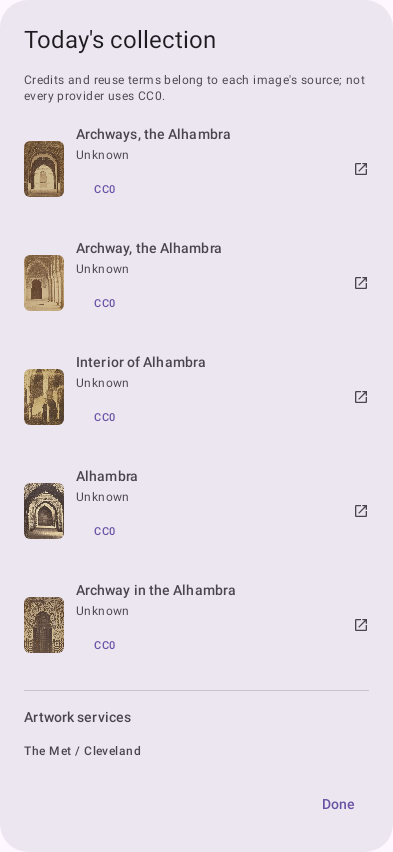
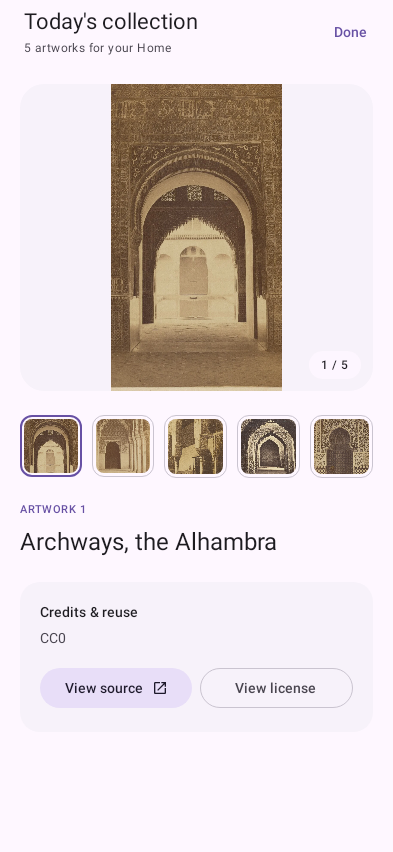
Redesign Today's collection as a themed artwork gallery

diff --git a/core/components/src/commonMain/kotlin/com/starception/submission/settings/components/HomeArtworkCollectionDialog.kt b/core/components/src/commonMain/kotlin/com/starception/submission/settings/components/HomeArtworkCollectionDialog.kt
@@ -1,0 +1,189 @@
+/*
+ * Copyright 2026 The Android Open Source Project
+ *
+ * Licensed under the Apache License, Version 2.0 (the "License");
+ * you may not use this file except in compliance with the License.
+ * You may obtain a copy of the License at
+ *
+ *     https://www.apache.org/licenses/LICENSE-2.0
+ *
+ * Unless required by applicable law or agreed to in writing, software
+ * distributed under the License is distributed on an "AS IS" BASIS,
+ * WITHOUT WARRANTIES OR CONDITIONS OF ANY KIND, either express or implied.
+ * See the License for the specific language governing permissions and
+ * limitations under the License.
+ */
+
+package com.starception.submission.settings.components
+
+import androidx.compose.foundation.Image
+import androidx.compose.foundation.border
+import androidx.compose.foundation.clickable
+import androidx.compose.foundation.layout.Arrangement
+import androidx.compose.foundation.layout.Box
+import androidx.compose.foundation.layout.BoxWithConstraints
+import androidx.compose.foundation.layout.Column
+import androidx.compose.foundation.layout.Row
+import androidx.compose.foundation.layout.WindowInsets
+import androidx.compose.foundation.layout.aspectRatio
+import androidx.compose.foundation.layout.fillMaxSize
+import androidx.compose.foundation.layout.fillMaxWidth
+import androidx.compose.foundation.layout.padding
+import androidx.compose.foundation.layout.safeDrawing
+import androidx.compose.foundation.layout.size
+import androidx.compose.foundation.layout.widthIn
+import androidx.compose.foundation.layout.windowInsetsPadding
+import androidx.compose.foundation.pager.HorizontalPager
+import androidx.compose.foundation.pager.rememberPagerState
+import androidx.compose.foundation.rememberScrollState
+import androidx.compose.foundation.shape.RoundedCornerShape
+import androidx.compose.foundation.verticalScroll
+import androidx.compose.material.icons.Icons
+import androidx.compose.material.icons.outlined.OpenInNew
+import androidx.compose.material3.FilledTonalButton
+import androidx.compose.material3.Icon
+import androidx.compose.material3.MaterialTheme
+import androidx.compose.material3.OutlinedButton
+import androidx.compose.material3.Surface
+import androidx.compose.material3.Text
+import androidx.compose.material3.TextButton
+import androidx.compose.runtime.Composable
+import androidx.compose.runtime.getValue
+import androidx.compose.runtime.mutableStateOf
+import androidx.compose.runtime.remember
+import androidx.compose.runtime.rememberCoroutineScope
+import androidx.compose.runtime.setValue
+import androidx.compose.ui.Alignment
+import androidx.compose.ui.Modifier
+import androidx.compose.ui.draw.clip
+import androidx.compose.ui.layout.ContentScale
+import androidx.compose.ui.platform.LocalDensity
+import androidx.compose.ui.platform.LocalUriHandler
+import androidx.compose.ui.platform.testTag
+import androidx.compose.ui.semantics.Role
+import androidx.compose.ui.semantics.contentDescription
+import androidx.compose.ui.semantics.selected
+import androidx.compose.ui.semantics.semantics
+import androidx.compose.ui.unit.dp
+import androidx.compose.ui.window.Dialog
+import androidx.compose.ui.window.DialogProperties
+import com.starception.submission.core.images.HomeArtwork
+import com.starception.submission.core.images.currentHomeArtworkPainter
+import kotlinx.coroutines.launch
+
+@Composable
+internal fun HomeArtworkCollectionDialog(artworks: List<HomeArtwork>, onDismiss: () -> Unit) {
+    val pager = rememberPagerState(pageCount = { artworks.size })
+    val scope = rememberCoroutineScope()
+    val uriHandler = LocalUriHandler.current
+    var linkError by remember { mutableStateOf<String?>(null) }
+    fun openLink(url: String) {
+        linkError = null
+        runCatching { uriHandler.openUri(url) }
+            .onFailure { linkError = "This link could not be opened. Please try again." }
+    }
+
+    Dialog(onDismissRequest = onDismiss, properties = DialogProperties(usePlatformDefaultWidth = false)) {
+        Surface(Modifier.fillMaxSize(), color = MaterialTheme.colorScheme.surface) {
+            Box(Modifier.fillMaxSize().windowInsetsPadding(WindowInsets.safeDrawing),
+                contentAlignment = Alignment.TopCenter) {
+                Column(Modifier.widthIn(max = 720.dp).fillMaxSize().testTag("homeArtworkCollection")) {
+                    Row(Modifier.fillMaxWidth().padding(start = 24.dp, end = 12.dp, top = 8.dp, bottom = 8.dp),
+                        verticalAlignment = Alignment.CenterVertically) {
+                        Column(Modifier.weight(1f), verticalArrangement = Arrangement.spacedBy(4.dp)) {
+                            Text("Today's collection", style = MaterialTheme.typography.titleLarge)
+                            Text("${artworks.size} artworks for your Home", style = MaterialTheme.typography.bodySmall,
+                                color = MaterialTheme.colorScheme.onSurfaceVariant)
+                        }
+                        TextButton(onClick = onDismiss) { Text("Done") }
+                    }
+                    Column(Modifier.weight(1f).verticalScroll(rememberScrollState()).padding(20.dp),
+                        verticalArrangement = Arrangement.spacedBy(24.dp)) {
+                        Box {
+                            HorizontalPager(state = pager, modifier = Modifier.fillMaxWidth()
+                                .aspectRatio(1.15f).clip(RoundedCornerShape(24.dp))
+                                .testTag("homeArtworkCollectionPager")) { page ->
+                                Surface(Modifier.fillMaxSize(), color = MaterialTheme.colorScheme.surfaceContainerLow) {
+                                    Image(currentHomeArtworkPainter(page), contentDescription = artworks[page].title,
+                                        contentScale = ContentScale.Fit, modifier = Modifier.fillMaxSize())
+                                }
+                            }
+                            Surface(modifier = Modifier.align(Alignment.BottomEnd).padding(12.dp),
+                                shape = RoundedCornerShape(50), color = MaterialTheme.colorScheme.surface.copy(alpha = .94f)) {
+                                Text("${pager.currentPage + 1} / ${artworks.size}",
+                                    Modifier.padding(horizontal = 12.dp, vertical = 6.dp),
+                                    style = MaterialTheme.typography.labelMedium)
+                            }
+                        }
+                        Row(Modifier.fillMaxWidth(), horizontalArrangement = Arrangement.spacedBy(10.dp)) {
+                            artworks.forEachIndexed { index, artwork ->
+                                val isSelected = pager.currentPage == index
+                                val shape = RoundedCornerShape(12.dp)
+                                Box(Modifier.weight(1f).aspectRatio(1f)
+                                    .border(if (isSelected) 2.dp else 1.dp,
+                                        if (isSelected) MaterialTheme.colorScheme.primary else MaterialTheme.colorScheme.outlineVariant,
+                                        shape)
+                                    .clip(shape).clickable(role = Role.Tab) { scope.launch { pager.animateScrollToPage(index) } }
+                                    .semantics {
+                                        selected = isSelected
+                                        contentDescription = "Artwork ${index + 1}: ${artwork.title}"
+                                    }.testTag("homeArtworkCollectionItem$index").padding(4.dp)) {
+                                    Image(currentHomeArtworkPainter(index), contentDescription = null,
+                                        contentScale = ContentScale.Crop, modifier = Modifier.fillMaxSize().clip(RoundedCornerShape(8.dp)))
+                                }
+                            }
+                        }
+                        artworks.getOrNull(pager.currentPage)?.let { artwork ->
+                            Column(verticalArrangement = Arrangement.spacedBy(8.dp)) {
+                                Text("ARTWORK ${pager.currentPage + 1}", style = MaterialTheme.typography.labelSmall,
+                                    color = MaterialTheme.colorScheme.primary)
+                                Text(artwork.title, style = MaterialTheme.typography.headlineSmall,
+                                    modifier = Modifier.testTag("homeArtworkCollectionTitle"))
+                                if (artwork.artist.isNotBlank() && !artwork.artist.equals("Unknown", ignoreCase = true)) {
+                                    Text(artwork.artist, style = MaterialTheme.typography.bodyMedium,
+                                        color = MaterialTheme.colorScheme.onSurfaceVariant)
+                                }
+                            }
+                            Surface(shape = RoundedCornerShape(20.dp), color = MaterialTheme.colorScheme.surfaceContainerLow) {
+                                Column(Modifier.fillMaxWidth().padding(20.dp), verticalArrangement = Arrangement.spacedBy(16.dp)) {
+                                    Column(verticalArrangement = Arrangement.spacedBy(6.dp)) {
+                                        Text("Credits & reuse", style = MaterialTheme.typography.titleSmall)
+                                        Text(artwork.licenseName, style = MaterialTheme.typography.bodyMedium,
+                                            color = MaterialTheme.colorScheme.onSurfaceVariant)
+                                    }
+                                    BoxWithConstraints(Modifier.fillMaxWidth()) {
+                                        val stack = maxWidth < 300.dp || LocalDensity.current.fontScale > 1.2f
+                                        val source: @Composable (Modifier) -> Unit = { modifier ->
+                                            FilledTonalButton(onClick = { openLink(artwork.sourceUrl) },
+                                                modifier = modifier.testTag("homeArtworkCollectionSource")) {
+                                                Text("View source")
+                                                Icon(Icons.Outlined.OpenInNew, null, Modifier.padding(start = 8.dp).size(16.dp))
+                                            }
+                                        }
+                                        val license: @Composable (Modifier) -> Unit = { modifier ->
+                                            OutlinedButton(onClick = { openLink(artwork.licenseUrl) },
+                                                modifier = modifier.testTag("homeArtworkCollectionLicense")) { Text("View license") }
+                                        }
+                                        if (stack) {
+                                            Column(verticalArrangement = Arrangement.spacedBy(8.dp)) {
+                                                source(Modifier.fillMaxWidth())
+                                                license(Modifier.fillMaxWidth())
+                                            }
+                                        } else {
+                                            Row(horizontalArrangement = Arrangement.spacedBy(8.dp)) {
+                                                source(Modifier.weight(1f))
+                                                license(Modifier.weight(1f))
+                                            }
+                                        }
+                                    }
+                                    linkError?.let { Text(it, style = MaterialTheme.typography.bodySmall,
+                                        color = MaterialTheme.colorScheme.error) }
+                                }
+                            }
+                        }
+                    }
+                }
+            }
+        }
+    }
+}

diff --git a/core/components/src/commonMain/kotlin/com/starception/submission/settings/components/HomeArtworkSettingsSection.kt b/core/components/src/commonMain/kotlin/com/starception/submission/settings/components/HomeArtworkSettingsSection.kt
@@ -28,16 +28,11 @@ import androidx.compose.foundation.layout.fillMaxWidth
 import androidx.compose.foundation.layout.height
 import androidx.compose.foundation.layout.padding
 import androidx.compose.foundation.layout.size
-import androidx.compose.foundation.layout.width
-import androidx.compose.foundation.rememberScrollState
 import androidx.compose.foundation.shape.RoundedCornerShape
-import androidx.compose.foundation.verticalScroll
 import androidx.compose.material.icons.Icons
 import androidx.compose.material.icons.outlined.Check
 import androidx.compose.material.icons.outlined.ExpandMore
-import androidx.compose.material.icons.outlined.OpenInNew
 import androidx.compose.material.icons.outlined.Refresh
-import androidx.compose.material3.AlertDialog
 import androidx.compose.material3.DropdownMenu
 import androidx.compose.material3.DropdownMenuItem
 import androidx.compose.material3.FilledTonalButton
@@ -58,19 +53,15 @@ import androidx.compose.ui.Modifier
 import androidx.compose.ui.draw.clip
 import androidx.compose.ui.layout.ContentScale
 import androidx.compose.ui.platform.LocalDensity
-import androidx.compose.ui.platform.LocalUriHandler
 import androidx.compose.ui.platform.testTag
 import androidx.compose.ui.semantics.Role
 import androidx.compose.ui.semantics.contentDescription
 import androidx.compose.ui.semantics.selected
 import androidx.compose.ui.semantics.semantics
 import androidx.compose.ui.text.font.FontWeight
-import androidx.compose.ui.text.style.TextOverflow
 import androidx.compose.ui.unit.dp
 import com.starception.submission.core.images.ArtworkFrequency
-import com.starception.submission.core.images.HomeArtwork
 import com.starception.submission.core.images.homeArtworkGallery
-import com.starception.submission.core.images.homeArtworkIndex
 import com.starception.submission.core.images.rememberHomeArtworkState
 import kotlinx.datetime.TimeZone
 import kotlinx.datetime.toLocalDateTime
@@ -79,8 +70,6 @@ import com.starception.submission.core.images.rememberHomeArtworkCollection
 import com.starception.submission.core.images.currentHomeArtworkPainter
 import com.starception.submission.core.images.HomeArtworkCollectionState
 import com.starception.submission.core.images.ArtworkTheme
-import com.starception.submission.core.images.artworkServices
-import org.jetbrains.compose.resources.painterResource
 
 @Composable
 fun HomeArtworkSettingsSection() {
@@ -192,7 +181,7 @@ fun HomeArtworkSettingsSection() {
             }
         }
     }
-    if (showDetails) ArtworkDetailsDialog(artworks, onDismiss = { showDetails = false })
+    if (showDetails) HomeArtworkCollectionDialog(artworks, onDismiss = { showDetails = false })
 }
 
 @Composable
@@ -303,55 +292,3 @@ private val ArtworkFrequency.description: String
         ArtworkFrequency.MONTHLY -> "At the start of each month"
         ArtworkFrequency.FIXED -> "Your current set stays"
     }
-
-@Composable
-private fun ArtworkDetailsDialog(artworks: List<HomeArtwork>, onDismiss: () -> Unit) {
-    val uriHandler = LocalUriHandler.current
-    AlertDialog(
-        onDismissRequest = onDismiss,
-        title = { Text("Today's collection") },
-        text = {
-            Column(
-                modifier = Modifier.verticalScroll(rememberScrollState()),
-                verticalArrangement = Arrangement.spacedBy(16.dp),
-            ) {
-                Text("Credits and reuse terms belong to each image's source; not every provider uses CC0.",
-                    style = MaterialTheme.typography.bodySmall)
-                artworks.forEachIndexed { page, artwork ->
-                    Row(
-                        modifier = Modifier.fillMaxWidth().clip(RoundedCornerShape(8.dp))
-                            .clickable(role = Role.Button) { uriHandler.openUri(artwork.sourceUrl) }
-                            .padding(vertical = 4.dp),
-                        horizontalArrangement = Arrangement.spacedBy(12.dp),
-                        verticalAlignment = Alignment.CenterVertically,
-                    ) {
-                        Image(currentHomeArtworkPainter(page), contentDescription = null,
-                            contentScale = ContentScale.Crop,
-                            modifier = Modifier.width(40.dp).height(56.dp).clip(RoundedCornerShape(6.dp)))
-                        Column(Modifier.weight(1f), verticalArrangement = Arrangement.spacedBy(3.dp)) {
-                            Text(artwork.title, style = MaterialTheme.typography.labelLarge,
-                                maxLines = 2, overflow = TextOverflow.Ellipsis)
-                            Text(artwork.artist, style = MaterialTheme.typography.bodySmall,
-                                 color = MaterialTheme.colorScheme.onSurfaceVariant)
-                            TextButton(onClick = { uriHandler.openUri(artwork.licenseUrl) }) {
-                                Text(artwork.licenseName, style = MaterialTheme.typography.labelSmall)
-                            }
-                        }
-                        Icon(Icons.Outlined.OpenInNew, contentDescription = "Open image source",
-                            modifier = Modifier.size(16.dp), tint = MaterialTheme.colorScheme.onSurfaceVariant)
-                    }
-                }
-                HorizontalDivider()
-                Text("Artwork services", style = MaterialTheme.typography.titleSmall)
-                artworkServices.forEach { service ->
-                    Column(verticalArrangement = Arrangement.spacedBy(2.dp)) {
-                        Text(service.name, style = MaterialTheme.typography.labelMedium)
-                        Text(service.status, style = MaterialTheme.typography.bodySmall,
-                            color = MaterialTheme.colorScheme.onSurfaceVariant)
-                    }
-                }
-            }
-        },
-        confirmButton = { TextButton(onClick = onDismiss) { Text("Done") } },
-    )
-}

diff --git a/app/src/testDemo/kotlin/com/starception/submission/feature/prayertimes/HomeArtworkSettingsTest.kt b/app/src/testDemo/kotlin/com/starception/submission/feature/prayertimes/HomeArtworkSettingsTest.kt
@@ -33,16 +33,22 @@ import androidx.compose.runtime.remember
 import androidx.compose.runtime.rememberCoroutineScope
 import androidx.compose.ui.platform.LocalInspectionMode
 import androidx.compose.ui.platform.LocalDensity
+import androidx.compose.ui.platform.LocalUriHandler
+import androidx.compose.ui.platform.UriHandler
 import androidx.compose.ui.unit.Density
 import androidx.compose.ui.Modifier
 import androidx.compose.ui.test.junit4.createComposeRule
 import androidx.compose.ui.test.onNodeWithTag
 import androidx.compose.ui.test.getUnclippedBoundsInRoot
 import androidx.compose.ui.test.assertIsDisplayed
+import androidx.compose.ui.test.assertIsSelected
+import androidx.compose.ui.test.assertTextEquals
 import androidx.compose.ui.test.onNodeWithText
 import androidx.compose.ui.test.onRoot
 import androidx.compose.ui.test.performClick
 import androidx.compose.ui.test.performScrollTo
+import androidx.compose.ui.test.performTouchInput
+import androidx.compose.ui.test.swipeLeft
 import androidx.compose.ui.unit.dp
 import androidx.test.core.app.ApplicationProvider
 import androidx.lifecycle.Lifecycle
@@ -67,6 +73,7 @@ import org.junit.Rule
 import org.junit.Test
 import org.junit.runner.RunWith
 import org.robolectric.RobolectricTestRunner
+import org.robolectric.RuntimeEnvironment
 import org.robolectric.annotation.Config
 import org.robolectric.annotation.GraphicsMode
 
@@ -200,6 +207,47 @@ class HomeArtworkSettingsTest {
         compose.onRoot().captureRoboImage("src/testDemo/screenshots/home_artwork_settings_large_text.png")
         compose.onNodeWithTag("homeArtworkFrequency").performClick()
         compose.onNodeWithText("Every day").performClick()
+    }
+
+    @Test fun collectionSelectionAndSwipingUpdateThePreviewAndCreditLinks() {
+        val opened = mutableListOf<String>()
+        compose.setContent {
+            CompositionLocalProvider(LocalUriHandler provides object : UriHandler {
+                override fun openUri(uri: String) { opened += uri }
+            }) { ArtworkSettingsScene(showHomeCollection = true) }
+        }
+        compose.onNodeWithTag("homeArtworkFrequency").performClick()
+        compose.onNodeWithText("Every day").performClick()
+        compose.onNodeWithText("Home shows Quiet Valley 1").assertExists()
+        compose.onNodeWithTag("homeArtworkDetails").performClick()
+        compose.onNodeWithTag("homeArtworkCollectionTitle").assertTextEquals("Quiet Valley 1")
+        compose.onNodeWithTag("homeArtworkCollectionItem1").performClick().assertIsSelected()
+        compose.onNodeWithTag("homeArtworkCollectionTitle").assertTextEquals("Quiet Valley 2")
+        compose.onNodeWithTag("homeArtworkCollectionPager").performTouchInput { swipeLeft() }
+        compose.onNodeWithTag("homeArtworkCollectionItem2").assertIsSelected()
+        compose.onNodeWithTag("homeArtworkCollectionTitle").assertTextEquals("Quiet Valley 3")
+        compose.onNodeWithTag("homeArtworkCollectionSource").performScrollTo().performClick()
+        compose.onNodeWithTag("homeArtworkCollectionLicense").performScrollTo().performClick()
+        compose.runOnIdle {
+            assertEquals(listOf("https://www.metmuseum.org/art/collection/search/3",
+                "https://creativecommons.org/publicdomain/zero/1.0/"), opened)
+        }
+        compose.onNodeWithText("Done").performClick()
+        compose.onNodeWithTag("homeArtworkCollection").assertDoesNotExist()
+    }
+
+    @Test @Config(qualifiers = "w320dp-h852dp")
+    fun collectionCreditsStayReachableWithLargeText() {
+        // Dialogs use the window configuration, so exercise the real system font scale.
+        RuntimeEnvironment.setFontScale(1.5f)
+        compose.setContent { ArtworkSettingsScene() }
+        compose.onNodeWithTag("homeArtworkDetails").performScrollTo().performClick()
+        compose.onNodeWithText("Today's collection").assertIsDisplayed()
+        compose.onNodeWithTag("homeArtworkCollectionItem4").performScrollTo().performClick().assertIsSelected()
+        compose.onNodeWithTag("homeArtworkCollectionSource").performScrollTo().assertIsDisplayed()
+        compose.onNodeWithTag("homeArtworkCollectionLicense").performScrollTo().assertIsDisplayed()
+        compose.onRoot().captureRoboImage("src/testDemo/screenshots/home_artwork_details_large_text.png")
+        compose.onNodeWithText("Done").assertIsDisplayed().performClick()
     }
 
 }

diff --git a/core/images/artwork/REVIEWED_ISLAMIC_ARTWORK.md b/core/images/artwork/REVIEWED_ISLAMIC_ARTWORK.md
@@ -24,6 +24,14 @@ the current set stays; there is no silent shuffle or unrestricted random-photo f
 but never substitutes previously viewed images for new artwork. Explicitly changing
 the theme may revisit that theme's reviewed collection; this is labelled separately.
 
+### Today's collection
+
+**About the artwork** opens a full-page gallery shared by Android and iOS. Swipe
+the large preview or select any of the five thumbnails to inspect an artwork.
+The preview preserves its aspect ratio, and the credits, source, and license
+actions follow the selected image. The page uses the selected app theme and
+scrolls on compact screens or with larger text; **Done** stays in the header.
+
 ### Personal artwork gallery
 
 Settings → Appearance → Home artwork has a **Choose artwork** action. Opening it
